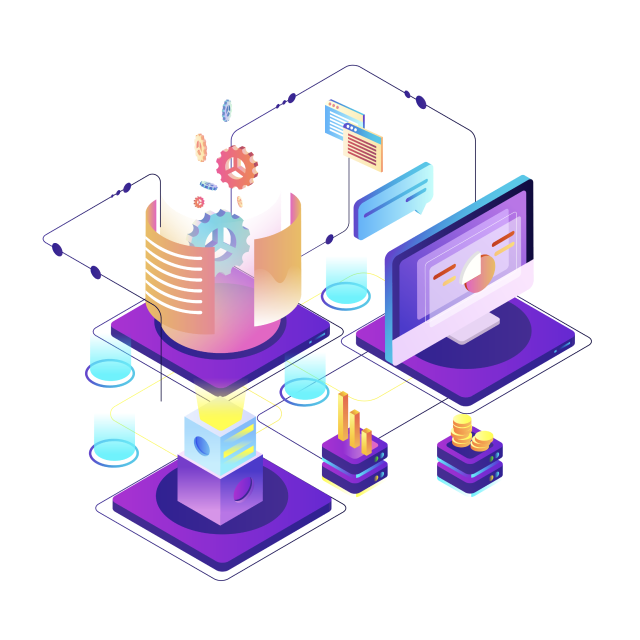
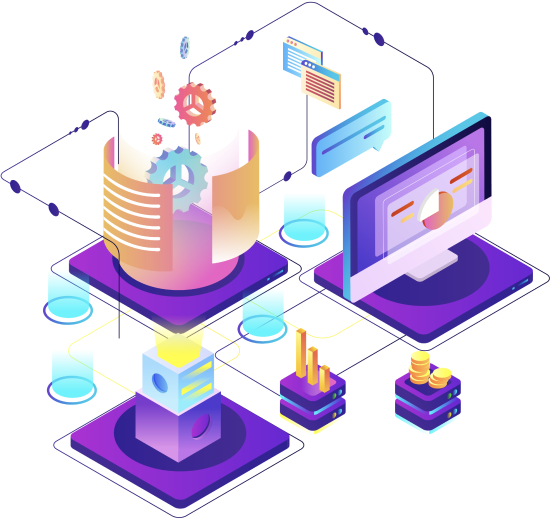
- Header - Responsive

diff --git a/components/Header.js b/components/Header.js
@@ -8,12 +8,12 @@ export const Header = () => {
   // console.log(`isAuthenticated: ${isAuthenticated}`)
 
   return (
-    <div className="header">
+    <div className="header overflow-hidden">
       <div className="container">
 
         <div className="flex flex-wrap">
           <div className="py-12 lg:py-16 flex flex-col max-w-screen-sm lg:w-1/2">
-            <h2 className="mb-2 text-2xl leading-10 lg:text-4xl lg:leading-snug font-medium text-white">
+            <h2 className="mb-2 text-2xl leading-8 lg:text-4xl lg:leading-snug font-medium text-white">
               <span className="relative inline-block">
                 Discover all the latest Cardano News, Feeds, Discussions, Projects and more... 
               </span>
@@ -22,7 +22,7 @@ export const Header = () => {
               and always be in the loop!
             </p>
           </div>
-          <div className="lg:w-1/2">
+          <div className="hidden lg:flex lg:w-1/2 lg:-my-12">
             <img className="block w-auto h-auto" src="/images/hero.png" alt="dhunt.io" />
           </div>
           {/* <div className="mt-4">

diff --git a/styles/_layout.css b/styles/_layout.css
@@ -6,7 +6,7 @@
 Main Container
 */
 .container {
-  @apply mx-auto px-2 md:px-4 max-w-screen-lg;
+  @apply mx-auto px-4 md:px-8 max-w-screen-lg;
 }
 
 /* 
@@ -22,8 +22,12 @@ Section
   @apply my-8;
 }
 
+.section > .container {
+  @apply px-0;
+}
+
 .section .container > .container-inner {
-  @apply p-8 bg-white shadow-sm rounded;
+  @apply p-4 md:p-8 bg-white shadow-sm rounded;
 }
 
 .section-header {

diff --git a/styles/styles.css b/styles/styles.css
@@ -11,10 +11,10 @@
 }
 
 .page-home .header {
-  @apply bg-purple-900 bg-gradient-to-br from-purple-900 to-blue-900;
+  @apply bg-gradient-to-br from-purple-900 to-purple-500;
 }
 
-.page-home .header .container-inner {
+.page-home .header .container {
 }
 
 
